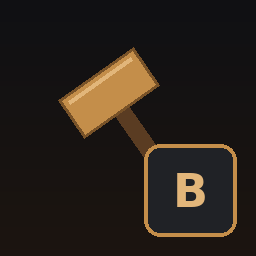
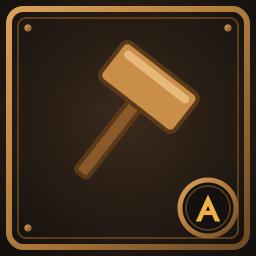
Update CI workflow and packaging scripts for improved versioning and README enhancements (#25)

diff --git a/README.md b/README.md
@@ -1,3 +1,7 @@
+[![CI](https://img.shields.io/github/actions/workflow/status/javidahmed64592/valheim-nohammerbuildmenu/ci.yml?branch=main&style=flat-square&label=CI&logo=github)](https://github.com/javidahmed64592/valheim-nohammerbuildmenu/actions/workflows/ci.yml)
+[![Package](https://img.shields.io/github/actions/workflow/status/javidahmed64592/valheim-nohammerbuildmenu/package.yml?branch=main&style=flat-square&label=Package&logo=github)](https://github.com/javidahmed64592/valheim-nohammerbuildmenu/actions/workflows/package.yml)
+[![License: MIT](https://img.shields.io/badge/License-MIT-yellow.svg)](https://opensource.org/licenses/MIT)
+
 # NoHammerBuildMenu
 
 This mod adds several improvements to the vanilla base hammer:
@@ -23,3 +27,7 @@ While placing a piece, a grid is drawn on the surface you are aiming at and piec
 
 ![Chunk Lines](https://github.com/javidahmed64592/Valheim-NoHammerBuildMenu/raw/main/game_screenshot_1.png)
 ![Chunk Edges](https://github.com/javidahmed64592/Valheim-NoHammerBuildMenu/raw/main/game_screenshot_2.png)
+
+## License
+
+This project is licensed under the MIT License - see the [LICENSE](https://github.com/javidahmed64592/Valheim-NoHammerBuildMenu/blob/main/LICENSE) file for details.

diff --git a/CHANGELOG.md b/CHANGELOG.md
@@ -5,6 +5,8 @@
 - Added an `.editorconfig`, `Directory.Build.props` and a CI workflow that runs `dotnet format` and a Release build.
 - Reformatted the code to match the new code style rules (no behaviour change).
 - Moved the Harmony patches into the `NoHammerBuildMenu.Patches` namespace.
+- Tidied up packaging scripts and workflow files.
+- Updated README and icon.
 
 ## 0.10.1
 
